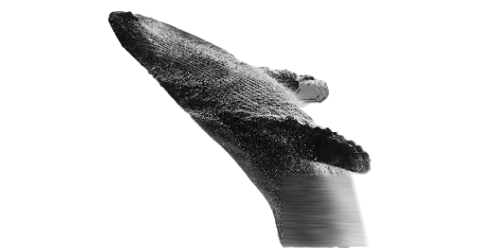
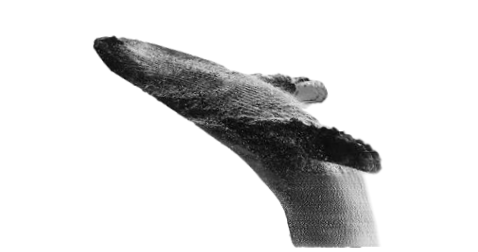
The whale: the belly view's upper body bent further over, and the whale sitting on its box's bottom edge at every screen size.

Changed region(s): [[0.1757, 0.0278, 0.8201, 1.0]]

diff --git a/apps/web/src/components/copy/DotWhale.tsx b/apps/web/src/components/copy/DotWhale.tsx
@@ -6,7 +6,8 @@
  *
  *   Side        from its side, the near flipper raised (whale-tone.png).
  *   Belly       from below, throat pleats and both flippers (whale-tone-belly.png,
- *               mirrored from the photo so it heads left).
+ *               mirrored from the photo so it heads left, its upper body bent a
+ *               little further over for more curve).
  *
  * Prints:
  *
@@ -21,7 +22,9 @@
  * alpha = the whale), equalised over the whale so its dark skin spreads over the
  * whole range. A made-up far flipper on the side view did not read as anatomy
  * (owner, 2026-10-25), so the belly view shows both flippers as photographed.
- * Little moves: a slow small bob, the dots giving where the pointer passes, the
+ * The whale sits on the bottom edge of its box at every size (it comes out of the
+ * page's edge as out of the water). Little moves: a slow small dip (never up, so
+ * no gap opens under it), the dots giving where the pointer passes, the
  * stars twinkling; no falling water (owner, 2026-10-25). Still under reduced motion.
  */
 import { useEffect, useRef, useState } from 'react';
@@ -44,15 +47,15 @@ const VIEWS: Array<{ id: WhaleView; label: string; url: string }> = [
 ];
 const VIEW_KEY = 'vs:whale-view';
 
-/** The tone map's size; the box adds a little room around it. */
+/** The tone map's size; the box adds a little room either side. */
 const TW = 478;
 const TH = 252;
 /** Room either side, so the fin tip clears the hero's edge fade. */
 const PAD = 18;
 const W = TW + PAD * 2;
-const H = 262;
 
-interface Tone { l: Float32Array; a: Float32Array }
+/** `bottom`: the whale's lowest row, put on the box's bottom edge. */
+interface Tone { l: Float32Array; a: Float32Array; bottom: number }
 interface Dot { x: number; y: number; r: number; a: number; ph: number; sp: number; dx: number; dy: number }
 
 const tones = new Map<WhaleView, Promise<Tone>>();
@@ -84,7 +87,13 @@ function loadTone(view: WhaleView): Promise<Tone> {
       for (let v = 0; v < 256; v++) { run += hist[v]!; cdf[v] = total ? run / total : v / 255; }
       const l = new Float32Array(n);
       for (let i = 0; i < n; i++) l[i] = cdf[raw[i]!]!;
-      ok({ l, a });
+      let bottom = TH;
+      for (let y = TH - 1; y > 0; y--) {
+        let row = 0;
+        for (let x = 0; x < TW; x++) row = Math.max(row, a[y * TW + x]!);
+        if (row > 0.5) { bottom = y + 1; break; }
+      }
+      ok({ l, a, bottom });
     };
     img.onerror = () => fail(new Error('whale tone did not load'));
     img.src = VIEWS.find((v) => v.id === view)!.url;
@@ -222,10 +231,10 @@ const GEOMETRY: Record<WhaleView, { spine: Poly; fins: Array<{ shape: Poly; axis
     fins: [{ shape: [[264, 26], [294, 19], [324, 11], [369, 4], [404, 3], [434, 5], [454, 14], [463, 26], [454, 34], [424, 39], [394, 46], [364, 56], [344, 69], [318, 62]], axis: [[270, 70], [330, 38], [400, 18], [470, 14]] }],
   },
   belly: {
-    spine: [[112, 17], [184, 75], [240, 122], [286, 172], [312, 222], [316, 262]],
+    spine: [[97, 44], [179, 89], [245, 126], [297, 172], [324, 222], [328, 262]],
     fins: [
-      { shape: [[333, 140], [354, 148], [370, 164], [363, 174], [335, 170], [310, 163], [303, 146]], axis: [[292, 153], [369, 165]] },
-      { shape: [[263, 66], [297, 71], [323, 78], [328, 91], [316, 102], [301, 99], [286, 92], [267, 84]], axis: [[257, 78], [328, 91]] },
+      { shape: [[341, 139], [363, 147], [381, 163], [374, 174], [346, 170], [321, 163], [312, 146]], axis: [[302, 154], [380, 164]] },
+      { shape: [[255, 73], [290, 74], [318, 78], [326, 91], [317, 102], [301, 101], [284, 95], [264, 89]], axis: [[252, 85], [326, 91]] },
     ],
   },
 };
@@ -383,9 +392,9 @@ export function DotWhale() {
       canvas.height = Math.max(1, Math.round(r.height * dpr));
       canvas.style.width = `${r.width}px`;
       canvas.style.height = `${r.height}px`;
-      scale = Math.min(r.width / W, r.height / H) * dpr;
+      scale = Math.min(r.width / W, r.height / TH) * dpr;
       ox = Math.round((canvas.width - W * scale) / 2 + PAD * scale);
-      oy = Math.round((canvas.height - H * scale) / 2);
+      oy = Math.round(canvas.height - (tone?.bottom ?? TH) * scale);
       build();
     };
     const dot = (x: number, y: number, r: number, a: number) => {
@@ -398,7 +407,7 @@ export function DotWhale() {
     const draw = (t: number) => {
       ctx.clearRect(0, 0, canvas.width, canvas.height);
       if (!tone) return;
-      const bob = still ? 0 : Math.sin(t / 4200) * 1.4;
+      const bob = still ? 0 : (1 - Math.cos(t / 4200)) * 0.8;
       if (style === 'pixel' || style === 'dots') {
         ctx.fillStyle = style === 'pixel' ? '#e4e4e4' : getComputedStyle(el).color || '#e8e8e8';
         const dpr = Math.min(2, window.devicePixelRatio || 1);
@@ -458,7 +467,7 @@ export function DotWhale() {
     loadTone(view).then((t) => {
       if (gone) return;
       tone = t;
-      build();
+      fit();
       if (still) draw(0);
     }).catch(() => { /* no art, the hero still reads */ });
     if (!still) raf = requestAnimationFrame(loop);

diff --git a/apps/web/src/components/copy/CopyHome.css b/apps/web/src/components/copy/CopyHome.css
@@ -736,7 +736,7 @@
 .cpy-whale canvas { display: block; }
 .cpy-whalewrap { position: relative; min-width: 0; }
 .cpy-whale--pixel { background: none; }
-.cpy-whale__switches { position: absolute; left: 50%; bottom: 6px; transform: translateX(-50%); z-index: 1; display: flex; gap: 8px; white-space: nowrap; }
+.cpy-whale__switches { position: absolute; left: 8%; bottom: 4px; z-index: 1; display: flex; gap: 8px; white-space: nowrap; }
 .cpy-whale__styles {
   position: relative;
   display: flex; gap: 2px; padding: 3px; border-radius: 999px;
@@ -751,5 +751,8 @@
 .cpy-whale__styles button.is-on { background: rgba(255, 255, 255, 0.1); color: var(--text, #e9e9ea); }
 @media (max-width: 1100px) {
   .cpy-hero:has(.cpy-whale) { grid-template-columns: minmax(0, 1fr); }
-  .cpy-whale { height: 360px; margin: 0; }
+  /* The box takes the whale's shape (DotWhale's 514 x 252), so it fills it and sits on its bottom edge. */
+  .cpy-whale { height: auto; aspect-ratio: 514 / 252; max-height: 360px; margin: 0; }
+  .cpy-whalewrap { display: flex; flex-direction: column-reverse; gap: 8px; }
+  .cpy-whale__switches { position: static; justify-content: center; flex-wrap: wrap; white-space: normal; }
 }
